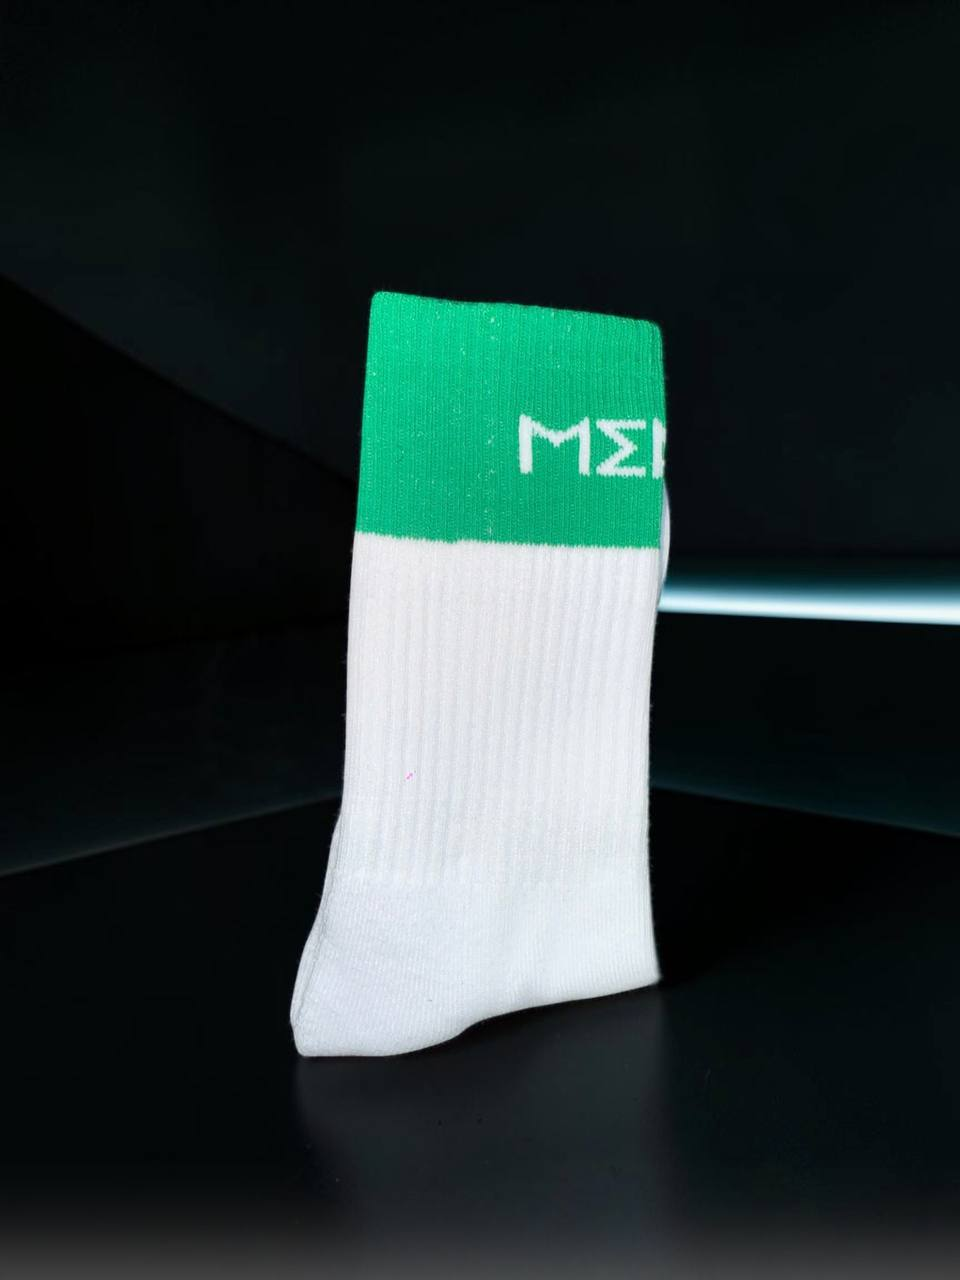
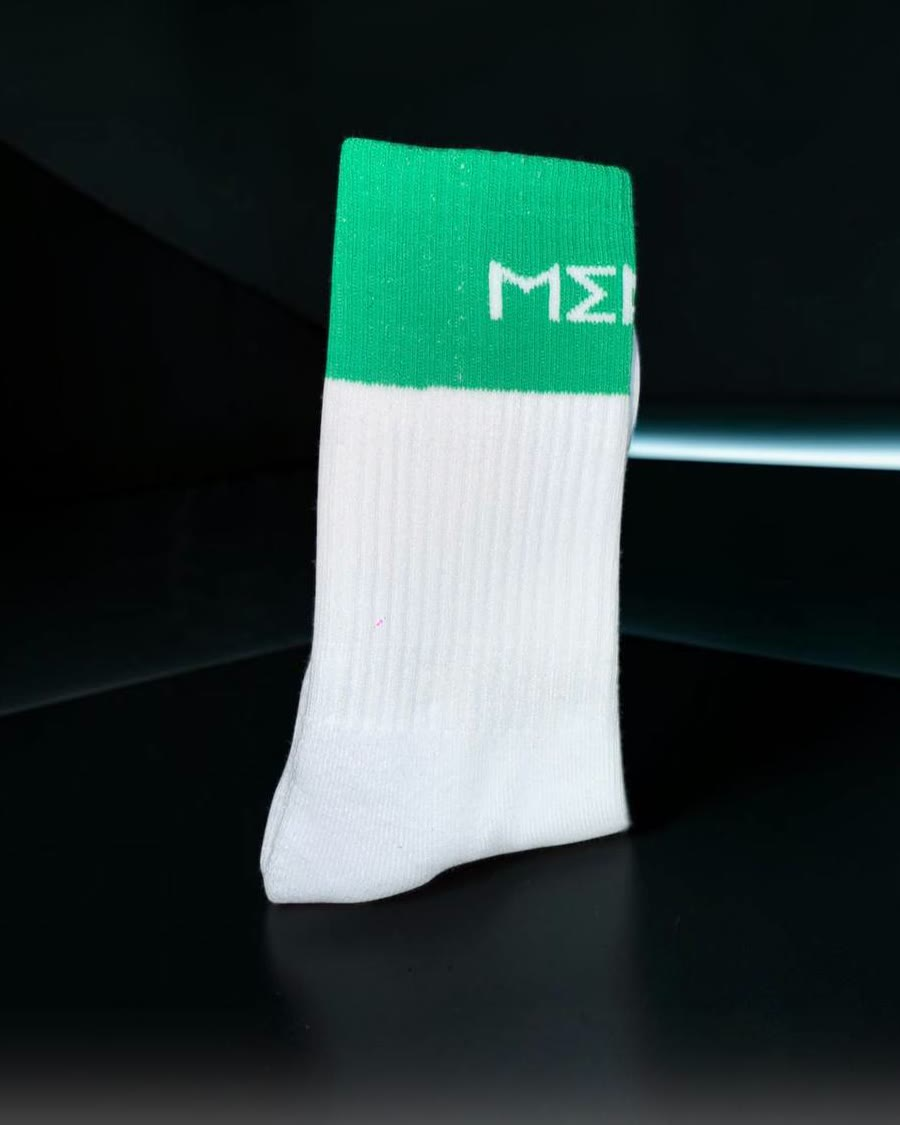
Show the full sock in shop and product photos.
Studio shots were 3:4 and cropped with cover, which cut the toe.
Photos are recropped to 4:5 from the bottom, and the gallery
uses contain so the whole product stays in frame.

Changed region(s): [[0.28, 0.1244, 1.0, 0.84], [0.8711, 0.6222, 0.9956, 0.6533]]

diff --git a/shop.css b/shop.css
@@ -292,13 +292,13 @@ body {
   display: grid; place-items: center; line-height: 1;
 }
 .filter.active .filter-wishlist-count { background: rgba(5,5,5,0.2); color: var(--black); }
-.product-img { height: 360px; background: var(--surface-2); display: grid; place-items: center; overflow: hidden; }
+.product-img { height: auto; aspect-ratio: 4 / 5; background: var(--surface-2); display: grid; place-items: center; overflow: hidden; }
 .product-img-btn {
   width: 100%; padding: 0; border: none; background: var(--surface-2); cursor: pointer; display: grid; place-items: center;
-  height: 360px; overflow: hidden;
+  height: auto; aspect-ratio: 4 / 5; overflow: hidden;
 }
 .product-img-btn:focus-visible { outline: 2px solid var(--gold); outline-offset: -2px; }
-.product-img img, .product-img-btn img { width: 100%; height: 100%; object-fit: cover; transition: transform 0.6s var(--ease); }
+.product-img img, .product-img-btn img { width: 100%; height: 100%; object-fit: contain; object-position: center center; transition: transform 0.6s var(--ease); }
 .product-card:hover .product-img img, .product-card:hover .product-img-btn img { transform: scale(1.04); }
 .product-img .placeholder, .product-img-btn .placeholder { font-size: 2rem; color: var(--gray-400); }
 .product-body { padding: 22px; }
@@ -991,7 +991,7 @@ body.pdp-open .nav a[href="#contact"] { opacity: 0.55; }
 }
 .pdp-media { background: var(--surface-1); padding: 20px; border: 1px solid var(--hairline); }
 .pdp-img-wrap { aspect-ratio: 4/5; background: var(--surface-2); overflow: hidden; border: 1px solid var(--hairline); position: relative; touch-action: pan-y; cursor: zoom-in; }
-.pdp-img-wrap img, .pdp-img-wrap .pdp-video { width: 100%; height: 100%; object-fit: cover; display: block; }
+.pdp-img-wrap img, .pdp-img-wrap .pdp-video { width: 100%; height: 100%; object-fit: contain; object-position: center center; display: block; }
 .pdp-video { background: #000; }
 .pdp-counter {
   position: absolute; left: 10px; bottom: 10px;

diff --git a/index.html b/index.html
@@ -14,7 +14,7 @@
   <link rel="preconnect" href="https://fonts.googleapis.com">
   <link rel="preconnect" href="https://fonts.gstatic.com" crossorigin>
   <link href="https://fonts.googleapis.com/css2?family=Syne:wght@500;600;700&family=DM+Sans:ital,wght@0,400;0,500;0,600;0,700;1,400&display=swap" rel="stylesheet">
-  <link rel="stylesheet" href="shop.css?v=20261009socks">
+  <link rel="stylesheet" href="shop.css?v=20261009sockscrop">
   <script>
     // Prefer English before shop.js loads (avoids French flash)
     try {
@@ -23,9 +23,9 @@
       else document.documentElement.lang = 'en';
     } catch (e) { document.documentElement.lang = 'en'; }
     try {
-      if (localStorage.getItem('menes_store_cache_v') !== '20261009socks') {
+      if (localStorage.getItem('menes_store_cache_v') !== '20261009sockscrop') {
         localStorage.removeItem('menes_store_data');
-        localStorage.setItem('menes_store_cache_v', '20261009socks');
+        localStorage.setItem('menes_store_cache_v', '20261009sockscrop');
       }
     } catch (e) {}
   </script>
@@ -522,7 +522,7 @@
   <div id="menesCursorRing" class="menes-cursor-ring" aria-hidden="true"></div>
 
   <script src="config.js?v=20260805b"></script>
-  <script src="lib/product-page.js?v=20261009socks"></script>
-  <script src="shop.js?v=20261009socks"></script>
+  <script src="lib/product-page.js?v=20261009sockscrop"></script>
+  <script src="shop.js?v=20261009sockscrop"></script>
 </body>
 </html>

diff --git a/shop.js b/shop.js
@@ -1284,8 +1284,8 @@ body { background: ${pal.bg}; color: ${pal.text}; font-family: ${bodyFont}; }
 .product-body p, .section-sub, .contact-sub, .pdp-desc { color: ${pal.muted}; }
 .product-card select, .modal-box input, .modal-box textarea, .modal-box select { background: ${mode === 'dark' ? '#161616' : '#fff'}; color: ${pal.text}; border-color: ${pal.border}; }
 .products-grid { grid-template-columns: repeat(auto-fill, minmax(${gridMin}px, 1fr)); }
-.product-img { height: ${aspect ? 'auto' : `${imgH}px`}; ${aspect ? `aspect-ratio: ${aspect};` : ''} }
-.product-img img { object-fit: ${imgFit}; }
+.product-img, .product-img-btn { height: ${aspect ? 'auto' : `${imgH}px`}; ${aspect ? `aspect-ratio: ${aspect};` : ''} }
+.product-img img, .product-img-btn img, .pdp-img-wrap img { object-fit: contain; object-position: center center; }
 .hero { min-height: ${heroH}vh; }
 .hero-bg.has-image::after, .hero-bg.has-video::after {
       background:
